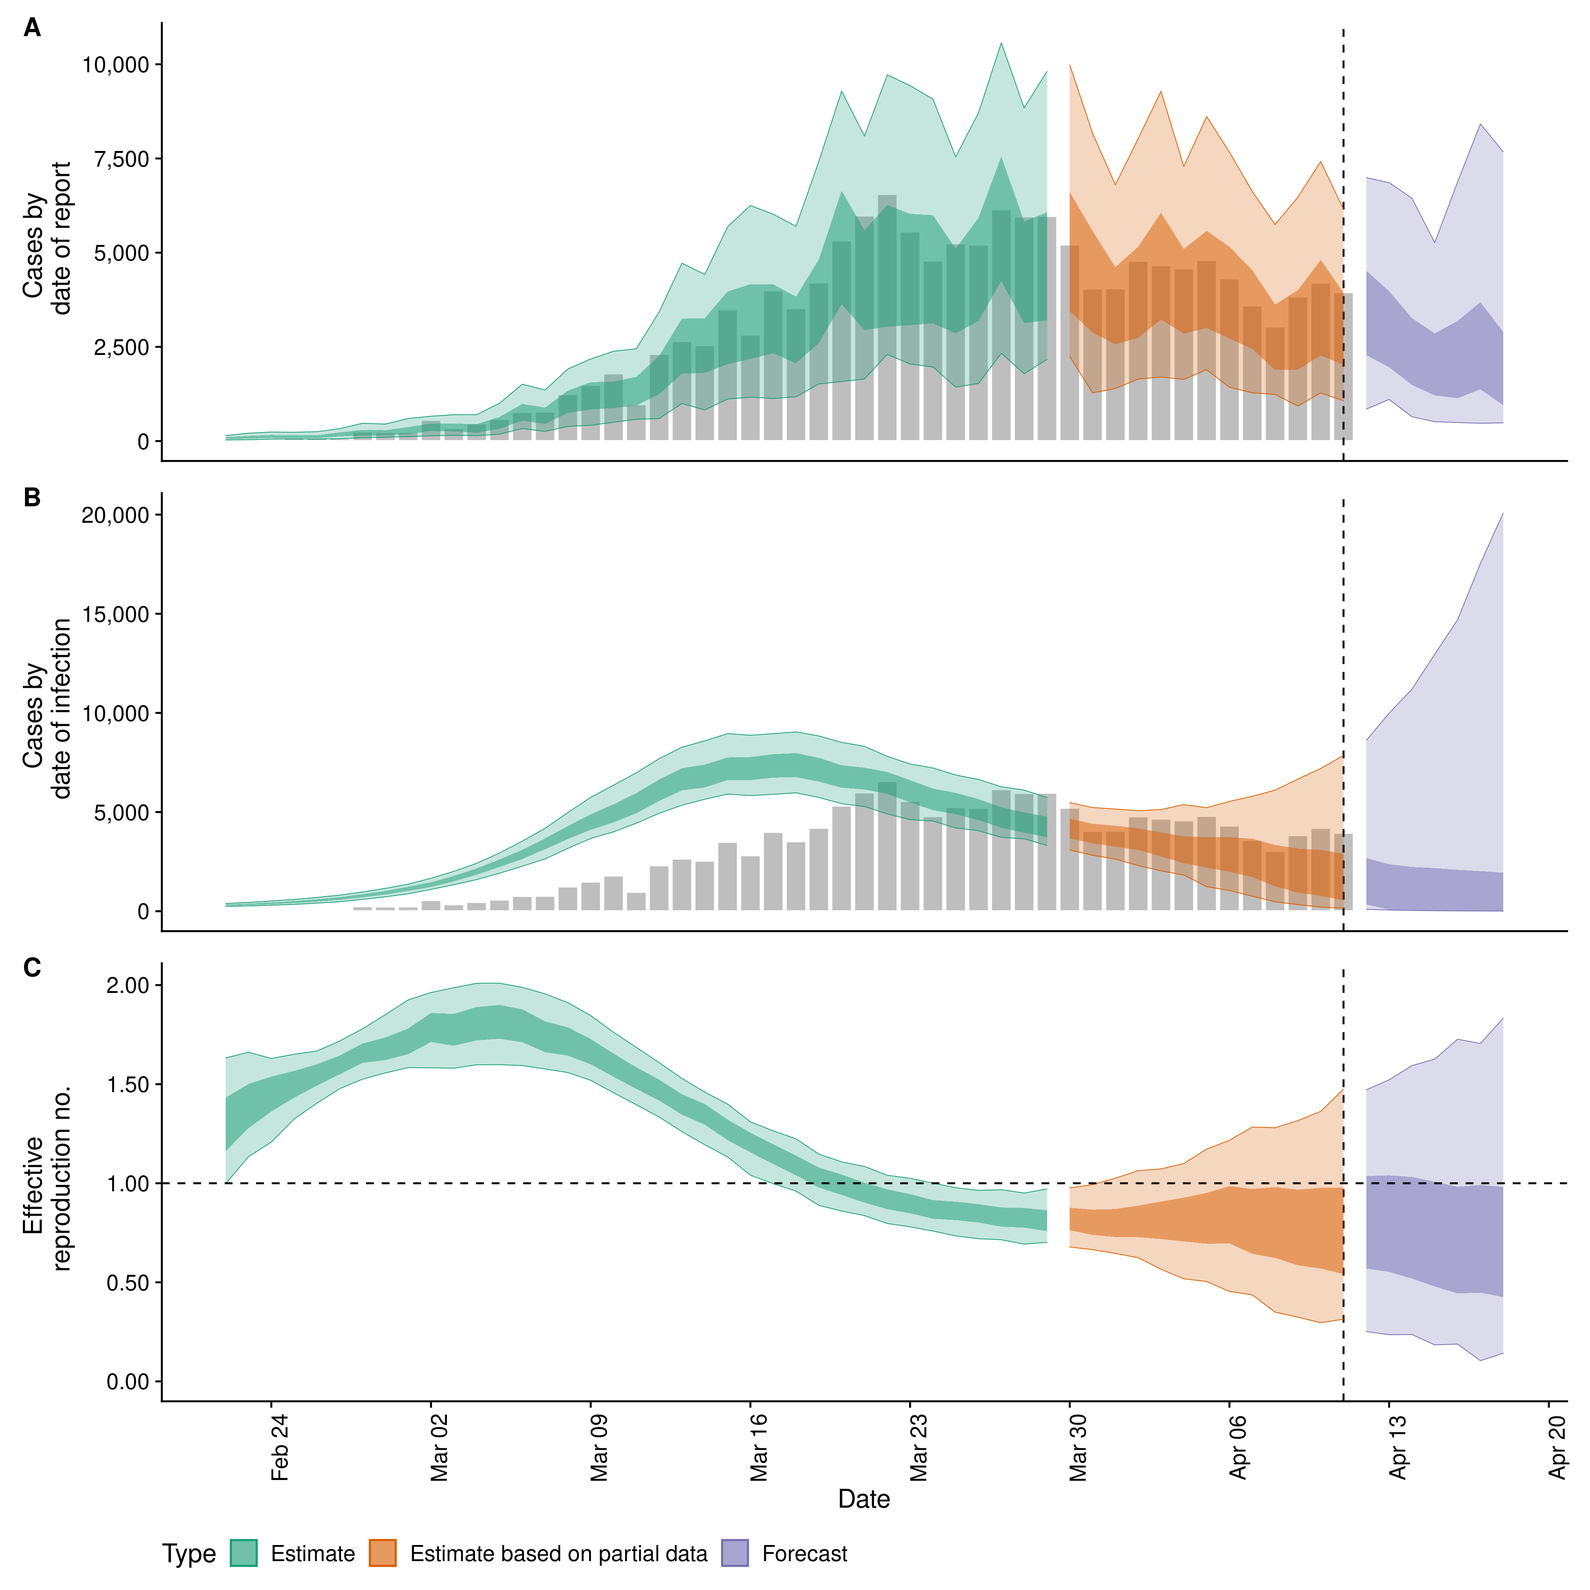
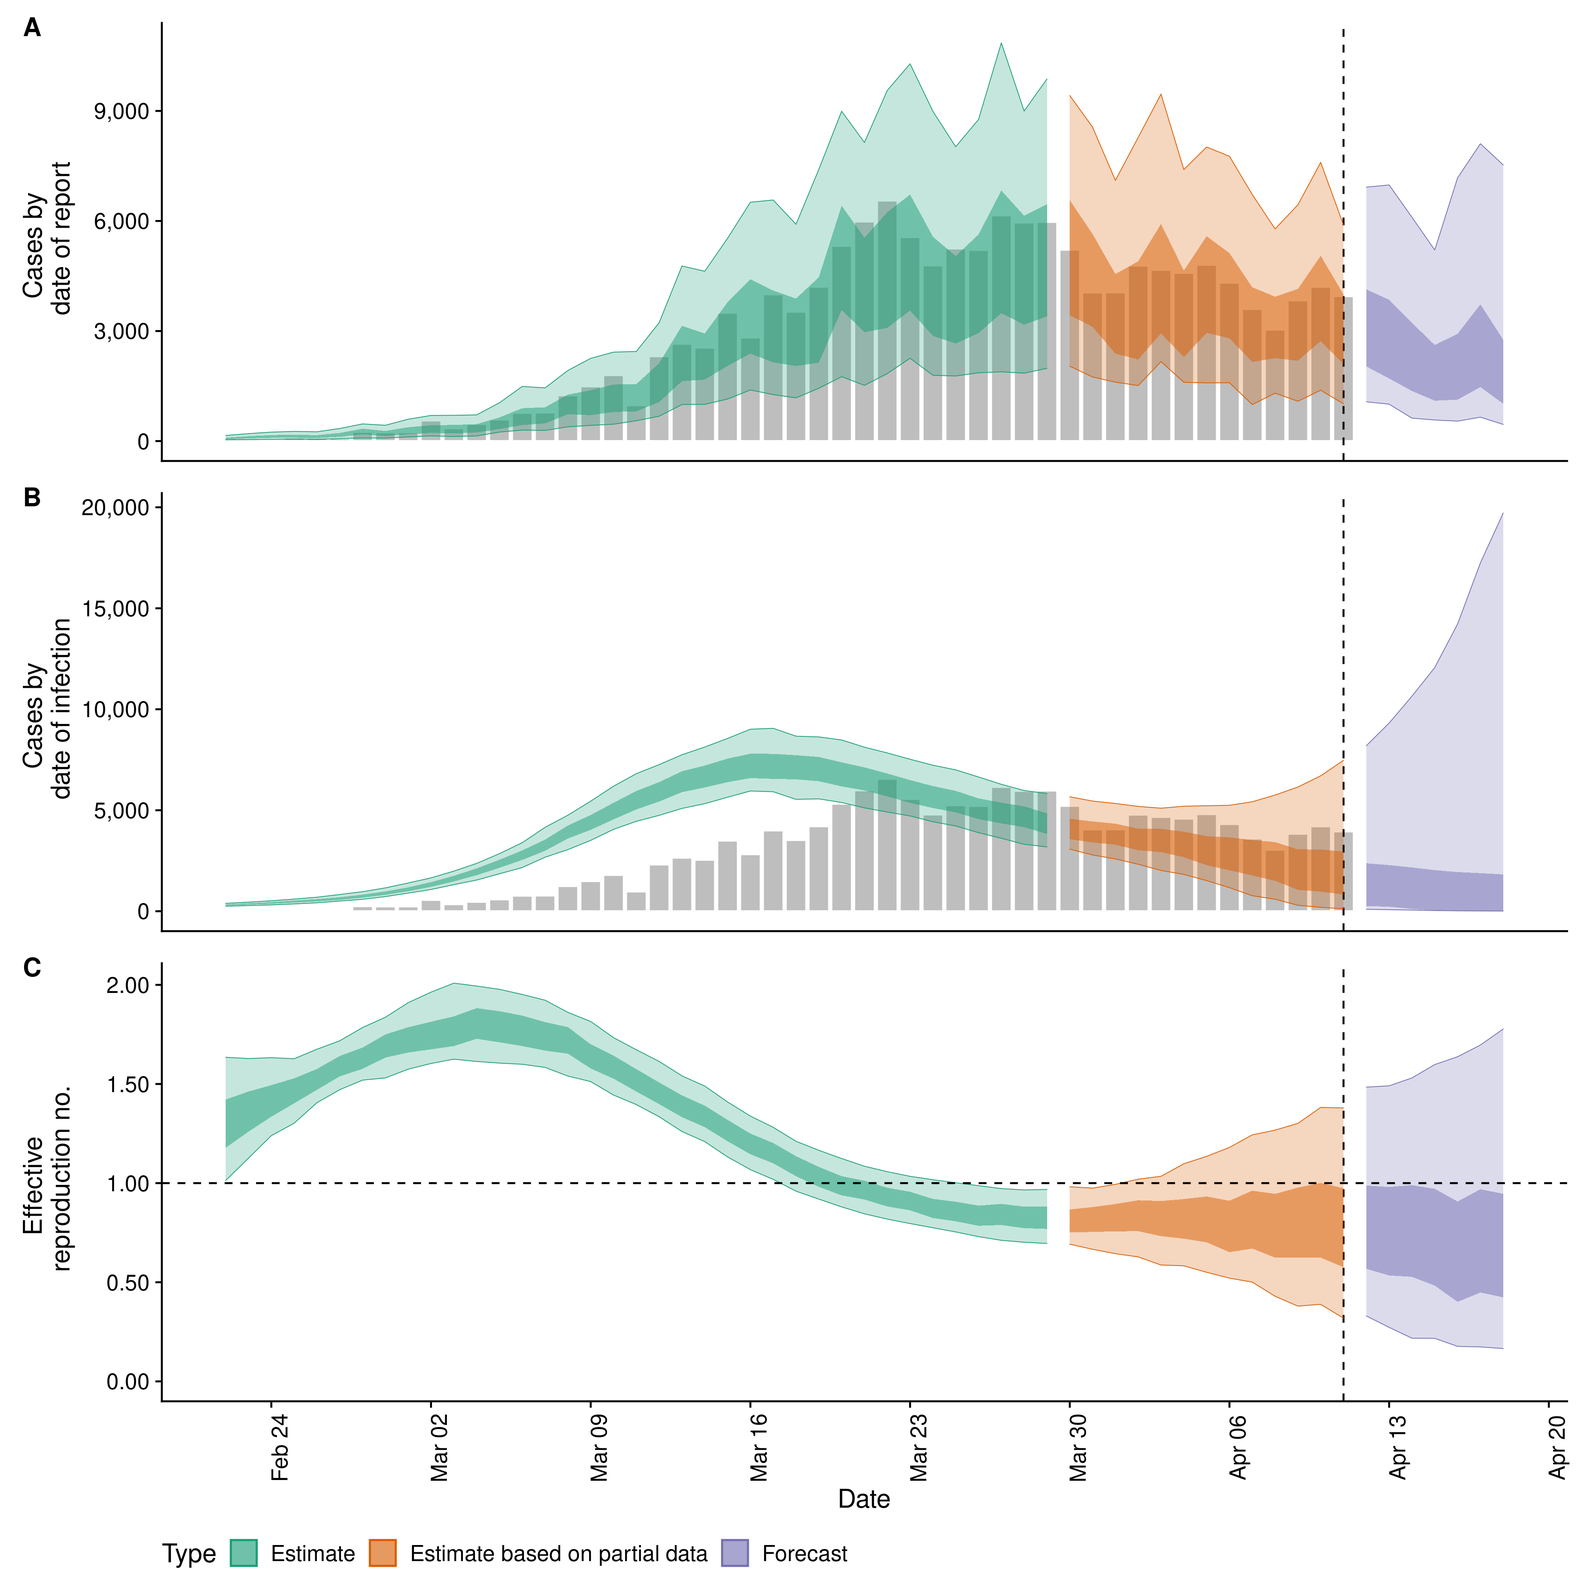
update readme:

diff --git a/README.md b/README.md
@@ -8,14 +8,14 @@ coverage](https://codecov.io/gh/epiforecasts/EpiNow2/branch/master/graph/badge.s
 
 This package estimates the time-varying reproduction number, rate of
 spread, and doubling time using a range of open-source tools ([Abbott et
-al.](doi.org/10.12688/wellcomeopenres.16006.1)), and current best
-practices ([Gostic et al.](doi.org/10.1101/2020.06.18.20134858)). It
-aims to help users avoid some of the limitations of naive
-implementations in a framework that is informed by community feedback
-and is under active development. It estimates the time-varying
-reproduction number on cases by date of infection (using a similar
-approach to that implemented in the
-[`{EpiEstim}`](https://github.com/annecori/EpiEstim)). Imputed
+al.](https://doi.org/10.12688/wellcomeopenres.16006.1)), and current
+best practices ([Gostic et
+al.](https://doi.org/10.1101/2020.06.18.20134858)). It aims to help
+users avoid some of the limitations of naive implementations in a
+framework that is informed by community feedback and is under active
+development. It estimates the time-varying reproduction number on cases
+by date of infection (using a similar approach to that implemented in
+the [`{EpiEstim}`](https://github.com/annecori/EpiEstim)). Imputed
 infections are then mapped to observed data (for example cases by date
 of report) via a series of uncertain delay distributions (in the
 examples in the package documentation these are an incubation period and
@@ -113,16 +113,16 @@ reporting_delay$max <- 30
 
 reporting_delay
 #> $mean
-#> [1] 1.545216
+#> [1] 1.526777
 #> 
 #> $mean_sd
-#> [1] 0.1324599
+#> [1] 0.1187874
 #> 
 #> $sd
-#> [1] 1.049099
+#> [1] 1.018014
 #> 
 #> $sd_sd
-#> [1] 0.1069301
+#> [1] 0.1281687
 #> 
 #> $max
 #> [1] 30
@@ -199,11 +199,11 @@ parameters in an easily explored format.
 estimates$estimates
 #> $samples
 #>                 variable        parameter time       date sample       value
-#>      1:       infections       infections    1 2020-02-09      1    1.930685
-#>      2:       infections       infections    2 2020-02-10      1   12.296683
-#>      3:       infections       infections    3 2020-02-11      1   18.511373
-#>      4:       infections       infections    4 2020-02-12      1   34.002092
-#>      5:       infections       infections    5 2020-02-13      1   50.878446
+#>      1:       infections       infections    1 2020-02-09      1    1.750261
+#>      2:       infections       infections    2 2020-02-10      1   12.116275
+#>      3:       infections       infections    3 2020-02-11      1   20.973398
+#>      4:       infections       infections    4 2020-02-12      1   33.235345
+#>      5:       infections       infections    5 2020-02-13      1   50.846664
 #>     ---                                                                     
 #> 254066: prior_infections prior_infections   66 2020-04-14      1 2714.255263
 #> 254067: prior_infections prior_infections   67 2020-04-15      1 2647.130393
@@ -224,30 +224,30 @@ estimates$estimates
 #> 254070:  <NA> forecast
 #> 
 #> $summarised
-#>            date       variable strat     type      bottom         top
-#>   1: 2020-02-22              R  <NA> estimate   0.9976886    1.632718
-#>   2: 2020-02-23              R  <NA> estimate   1.1341943    1.661147
-#>   3: 2020-02-24              R  <NA> estimate   1.2077832    1.629813
-#>   4: 2020-02-25              R  <NA> estimate   1.3241587    1.651037
-#>   5: 2020-02-26              R  <NA> estimate   1.4040138    1.667489
-#>  ---                                                                 
-#> 320: 2020-04-14 reported_cases  <NA> forecast 645.0000000 6444.000000
-#> 321: 2020-04-15 reported_cases  <NA> forecast 514.0000000 5265.000000
-#> 322: 2020-04-16 reported_cases  <NA> forecast 493.0000000 6875.000000
-#> 323: 2020-04-17 reported_cases  <NA> forecast 472.0000000 8417.000000
-#> 324: 2020-04-18 reported_cases  <NA> forecast 484.0000000 7679.000000
+#>            date       variable strat     type     bottom         top
+#>   1: 2020-02-22              R  <NA> estimate   1.013607    1.634806
+#>   2: 2020-02-23              R  <NA> estimate   1.126032    1.628409
+#>   3: 2020-02-24              R  <NA> estimate   1.239503    1.632852
+#>   4: 2020-02-25              R  <NA> estimate   1.302263    1.627336
+#>   5: 2020-02-26              R  <NA> estimate   1.405565    1.675343
+#>  ---                                                                
+#> 320: 2020-04-14 reported_cases  <NA> forecast 625.000000 6101.000000
+#> 321: 2020-04-15 reported_cases  <NA> forecast 575.000000 5209.000000
+#> 322: 2020-04-16 reported_cases  <NA> forecast 544.000000 7177.000000
+#> 323: 2020-04-17 reported_cases  <NA> forecast 652.000000 8107.000000
+#> 324: 2020-04-18 reported_cases  <NA> forecast 454.000000 7528.000000
 #>            lower       upper      median        mean           sd
-#>   1:    1.161898    1.432021    1.326492    1.332901 1.955253e-01
-#>   2:    1.278200    1.500735    1.373163    1.378565 1.604993e-01
-#>   3:    1.361885    1.538032    1.425563    1.429665 1.282570e-01
-#>   4:    1.431844    1.566878    1.486481    1.484806 1.008667e-01
-#>   5:    1.492757    1.599931    1.542450    1.542226 8.177660e-02
+#>   1:    1.178451    1.421593    1.339590    1.330223 1.850986e-01
+#>   2:    1.259853    1.462121    1.377084    1.375055 1.527293e-01
+#>   3:    1.334916    1.494135    1.422152    1.425275 1.231917e-01
+#>   4:    1.402532    1.528534    1.477543    1.479545 9.865963e-02
+#>   5:    1.470801    1.575832    1.530933    1.536156 8.252993e-02
 #>  ---                                                             
-#> 320: 1491.000000 3263.000000 2935.000000 3533.298000 2.386467e+03
-#> 321: 1212.000000 2857.000000 2432.500000 2988.752000 2.445418e+03
-#> 322: 1139.000000 3186.000000 2804.500000 3801.958000 4.097769e+03
-#> 323: 1372.000000 3685.000000 3198.000000 5214.320000 1.880585e+04
-#> 324:  956.000000 2894.000000 2531.000000 4865.491000 2.108619e+04
+#> 320: 1366.000000 3220.000000 2829.500000 3393.952000 2.299540e+03
+#> 321: 1101.000000 2620.000000 2367.500000 2973.355000 2.680636e+03
+#> 322: 1129.000000 2921.000000 2640.500000 3642.206000 3.842833e+03
+#> 323: 1473.000000 3729.000000 3170.500000 5226.641000 1.567632e+04
+#> 324: 1019.000000 2762.000000 2443.500000 5387.408000 2.755609e+04
 ```
 
 Reported cases are returned separately in order to ease reporting of
@@ -257,77 +257,77 @@ forecasts and model evaluation.
 estimates$estimated_reported_cases
 #> $samples
 #>              date sample cases  type
-#>     1: 2020-02-22      1    72 gp_rt
-#>     2: 2020-02-23      1   179 gp_rt
-#>     3: 2020-02-24      1   253 gp_rt
-#>     4: 2020-02-25      1   150 gp_rt
-#>     5: 2020-02-26      1   133 gp_rt
+#>     1: 2020-02-22      1    57 gp_rt
+#>     2: 2020-02-23      1    88 gp_rt
+#>     3: 2020-02-24      1   138 gp_rt
+#>     4: 2020-02-25      1   117 gp_rt
+#>     5: 2020-02-26      1   141 gp_rt
 #>    ---                              
-#> 56996: 2020-04-14   1000  3577 gp_rt
-#> 56997: 2020-04-15   1000  1793 gp_rt
-#> 56998: 2020-04-16   1000  2103 gp_rt
-#> 56999: 2020-04-17   1000   472 gp_rt
-#> 57000: 2020-04-18   1000  2418 gp_rt
+#> 56996: 2020-04-14   1000  1206 gp_rt
+#> 56997: 2020-04-15   1000   907 gp_rt
+#> 56998: 2020-04-16   1000  1143 gp_rt
+#> 56999: 2020-04-17   1000  2382 gp_rt
+#> 57000: 2020-04-18   1000  1847 gp_rt
 #> 
 #> $summarised
 #>           date  type bottom   top lower upper median     mean          sd
-#>  1: 2020-02-22 gp_rt     29   147    55   100   82.0   87.506    37.87097
-#>  2: 2020-02-23 gp_rt     36   209    67   137  120.0  127.122    56.40657
-#>  3: 2020-02-24 gp_rt     51   240    86   161  134.0  146.775    65.09033
-#>  4: 2020-02-25 gp_rt     57   234    77   155  142.0  148.686    59.62819
-#>  5: 2020-02-26 gp_rt     51   249    75   156  142.0  153.766    67.69020
-#>  6: 2020-02-27 gp_rt     63   330   125   229  191.5  205.435    88.86615
-#>  7: 2020-02-28 gp_rt     90   473   144   297  266.0  286.814   127.44537
-#>  8: 2020-02-29 gp_rt    102   451   151   287  251.0  266.803   113.18316
-#>  9: 2020-03-01 gp_rt    119   600   180   370  325.0  357.672   171.15426
-#> 10: 2020-03-02 gp_rt    140   660   269   466  388.5  407.169   171.44603
-#> 11: 2020-03-03 gp_rt    155   700   255   465  384.0  421.291   185.03628
-#> 12: 2020-03-04 gp_rt    145   701   218   448  399.0  424.808   186.79433
-#> 13: 2020-03-05 gp_rt    182  1003   329   640  568.5  612.244   270.90482
-#> 14: 2020-03-06 gp_rt    333  1509   541   986  803.5  878.620   393.86980
-#> 15: 2020-03-07 gp_rt    256  1356   454   888  801.0  866.045   373.52259
-#> 16: 2020-03-08 gp_rt    391  1912   746  1338 1073.0 1162.320   507.78628
-#> 17: 2020-03-09 gp_rt    419  2179   840  1562 1294.0 1381.053   578.44088
-#> 18: 2020-03-10 gp_rt    499  2384   875  1578 1333.0 1428.703   619.72803
-#> 19: 2020-03-11 gp_rt    580  2450   945  1705 1372.0 1455.251   634.73807
-#> 20: 2020-03-12 gp_rt    597  3427  1241  2260 1929.0 2075.379   922.69655
-#> 21: 2020-03-13 gp_rt    998  4721  1789  3248 2667.5 2848.014  1280.35860
-#> 22: 2020-03-14 gp_rt    825  4422  1810  3261 2541.0 2716.711  1180.18493
-#> 23: 2020-03-15 gp_rt   1115  5687  2041  3970 3251.5 3539.352  1630.38673
-#> 24: 2020-03-16 gp_rt   1167  6252  2177  4161 3535.0 3798.382  1698.41383
-#> 25: 2020-03-17 gp_rt   1130  6021  2330  4159 3520.5 3792.849  1699.05103
-#> 26: 2020-03-18 gp_rt   1174  5699  2066  3832 3242.0 3492.269  1478.47621
-#> 27: 2020-03-19 gp_rt   1516  7421  2604  4816 4173.5 4506.203  1940.88979
-#> 28: 2020-03-20 gp_rt   1581  9287  3630  6642 5421.0 5835.917  2567.43570
-#> 29: 2020-03-21 gp_rt   1648  8094  2945  5596 4688.5 4960.858  2177.20211
-#> 30: 2020-03-22 gp_rt   2300  9718  3035  6267 5582.5 5865.234  2543.39541
-#> 31: 2020-03-23 gp_rt   2046  9434  3076  6028 5545.5 5871.242  2504.05670
-#> 32: 2020-03-24 gp_rt   1966  9077  3125  5995 5145.0 5526.615  2429.53809
-#> 33: 2020-03-25 gp_rt   1433  7544  2858  5105 4317.0 4661.903  2115.48837
-#> 34: 2020-03-26 gp_rt   1529  8713  3187  5926 5102.5 5555.179  2518.98884
-#> 35: 2020-03-27 gp_rt   2330 10569  4246  7549 6134.5 6565.456  2845.39111
-#> 36: 2020-03-28 gp_rt   1786  8842  3131  5825 5041.0 5402.342  2361.78178
-#> 37: 2020-03-29 gp_rt   2167  9810  3204  6071 5527.5 6031.692  2588.90665
-#> 38: 2020-03-30 gp_rt   2240  9985  3447  6605 5449.5 5880.109  2581.86211
-#> 39: 2020-03-31 gp_rt   1280  8171  2882  5577 4611.0 5043.097  2393.20006
-#> 40: 2020-04-01 gp_rt   1394  6799  2566  4615 3899.5 4192.570  1866.59196
-#> 41: 2020-04-02 gp_rt   1645  8030  2739  5158 4556.0 4874.705  2174.57274
-#> 42: 2020-04-03 gp_rt   1700  9283  3225  6061 5295.0 5751.349  2597.19810
-#> 43: 2020-04-04 gp_rt   1635  7286  2853  5097 4217.5 4393.266  1852.38997
-#> 44: 2020-04-05 gp_rt   1893  8614  3002  5578 4752.5 5061.313  2222.68043
-#> 45: 2020-04-06 gp_rt   1427  7669  2720  5157 4395.0 4715.568  2269.74026
-#> 46: 2020-04-07 gp_rt   1281  6627  2446  4535 3755.0 4052.492  1765.71419
-#> 47: 2020-04-08 gp_rt   1237  5748  1886  3627 3114.5 3368.006  1534.13088
-#> 48: 2020-04-09 gp_rt    930  6474  1896  4004 3521.0 3928.244  1870.66115
-#> 49: 2020-04-10 gp_rt   1277  7421  2272  4808 4254.0 4571.091  2176.19018
-#> 50: 2020-04-11 gp_rt   1071  6154  2027  3939 3252.5 3612.370  1767.25537
-#> 51: 2020-04-12 gp_rt    848  6992  2282  4520 3655.5 4093.223  2175.25044
-#> 52: 2020-04-13 gp_rt   1107  6857  1958  3975 3445.5 3904.479  2099.78271
-#> 53: 2020-04-14 gp_rt    645  6444  1491  3263 2935.0 3533.298  2386.46652
-#> 54: 2020-04-15 gp_rt    514  5265  1212  2857 2432.5 2988.752  2445.41752
-#> 55: 2020-04-16 gp_rt    493  6875  1139  3186 2804.5 3801.958  4097.76886
-#> 56: 2020-04-17 gp_rt    472  8417  1372  3685 3198.0 5214.320 18805.85271
-#> 57: 2020-04-18 gp_rt    484  7679   956  2894 2531.0 4865.491 21086.18578
+#>  1: 2020-02-22 gp_rt     34   153    43    88   81.0   88.586    39.65505
+#>  2: 2020-02-23 gp_rt     40   203    72   134  116.0  126.097    55.10023
+#>  3: 2020-02-24 gp_rt     45   244    88   162  139.5  150.251    66.05259
+#>  4: 2020-02-25 gp_rt     54   264    89   172  146.0  155.772    70.09574
+#>  5: 2020-02-26 gp_rt     43   253    83   161  140.0  152.781    69.60690
+#>  6: 2020-02-27 gp_rt     68   343   114   221  189.0  203.793    92.92878
+#>  7: 2020-02-28 gp_rt     85   468   184   337  276.0  290.370   125.67080
+#>  8: 2020-02-29 gp_rt     81   431   139   275  252.5  267.204   116.88049
+#>  9: 2020-03-01 gp_rt    113   596   186   378  321.0  353.678   164.78594
+#> 10: 2020-03-02 gp_rt    141   699   225   431  371.5  412.765   189.37183
+#> 11: 2020-03-03 gp_rt    125   702   209   441  388.0  420.190   203.38732
+#> 12: 2020-03-04 gp_rt    140   714   234   461  397.0  429.156   196.69349
+#> 13: 2020-03-05 gp_rt    245  1044   329   644  566.5  609.139   266.42624
+#> 14: 2020-03-06 gp_rt    300  1490   438   896  808.0  871.336   397.23481
+#> 15: 2020-03-07 gp_rt    291  1450   482   920  803.5  873.307   398.43175
+#> 16: 2020-03-08 gp_rt    389  1925   731  1268 1069.0 1158.306   538.96552
+#> 17: 2020-03-09 gp_rt    428  2255   707  1385 1263.5 1351.991   594.49812
+#> 18: 2020-03-10 gp_rt    460  2425   794  1542 1358.0 1461.580   652.64810
+#> 19: 2020-03-11 gp_rt    555  2443   811  1554 1346.0 1476.827   652.37897
+#> 20: 2020-03-12 gp_rt    677  3227  1064  2121 1861.5 1992.058   865.29130
+#> 21: 2020-03-13 gp_rt    996  4773  1635  3142 2718.5 2881.378  1326.69167
+#> 22: 2020-03-14 gp_rt   1002  4630  1677  2932 2456.0 2708.254  1174.37006
+#> 23: 2020-03-15 gp_rt   1146  5529  2048  3786 3201.5 3447.779  1570.34310
+#> 24: 2020-03-16 gp_rt   1393  6512  2386  4414 3591.5 3908.992  1769.31798
+#> 25: 2020-03-17 gp_rt   1267  6572  2146  4104 3522.5 3846.382  1768.97474
+#> 26: 2020-03-18 gp_rt   1179  5910  2047  3884 3261.0 3526.138  1602.86542
+#> 27: 2020-03-19 gp_rt   1440  7407  2139  4466 4021.5 4431.678  2072.42123
+#> 28: 2020-03-20 gp_rt   1755  8992  3576  6416 5200.0 5559.238  2385.59600
+#> 29: 2020-03-21 gp_rt   1519  8141  2969  5542 4681.0 5032.791  2181.88502
+#> 30: 2020-03-22 gp_rt   1840  9560  3086  6237 5578.0 5932.509  2629.45578
+#> 31: 2020-03-23 gp_rt   2257 10286  3558  6721 5520.5 5981.983  2663.74716
+#> 32: 2020-03-24 gp_rt   1794  8990  2868  5572 4922.5 5387.801  2478.20195
+#> 33: 2020-03-25 gp_rt   1774  8025  2659  5043 4286.0 4616.990  2072.41513
+#> 34: 2020-03-26 gp_rt   1863  8767  2942  5631 4942.0 5453.010  2427.70123
+#> 35: 2020-03-27 gp_rt   1888 10857  3489  6830 6036.5 6570.360  2997.09143
+#> 36: 2020-03-28 gp_rt   1851  8998  3172  6144 5025.5 5376.933  2437.79923
+#> 37: 2020-03-29 gp_rt   1983  9871  3400  6457 5648.5 6005.764  2573.58254
+#> 38: 2020-03-30 gp_rt   2041  9421  3431  6567 5408.5 5809.676  2567.23470
+#> 39: 2020-03-31 gp_rt   1747  8559  3116  5642 4738.5 5127.833  2258.63751
+#> 40: 2020-04-01 gp_rt   1606  7108  2383  4553 3924.0 4296.909  1977.72808
+#> 41: 2020-04-02 gp_rt   1513  8280  2224  4900 4498.5 4926.810  2324.42789
+#> 42: 2020-04-03 gp_rt   2167  9460  2937  5920 5333.0 5731.218  2532.78712
+#> 43: 2020-04-04 gp_rt   1602  7402  2289  4646 4257.0 4565.501  1939.39160
+#> 44: 2020-04-05 gp_rt   1586  8016  2952  5586 4645.5 5011.806  2335.28577
+#> 45: 2020-04-06 gp_rt   1590  7765  2800  5123 4370.5 4646.726  2030.21003
+#> 46: 2020-04-07 gp_rt    994  6722  2159  4192 3690.5 4067.877  1890.74353
+#> 47: 2020-04-08 gp_rt   1306  5785  2260  3937 3162.5 3382.271  1484.56436
+#> 48: 2020-04-09 gp_rt   1085  6441  2192  4147 3574.5 3929.648  1872.83467
+#> 49: 2020-04-10 gp_rt   1386  7599  2728  5052 4165.0 4569.607  2110.62085
+#> 50: 2020-04-11 gp_rt   1014  5890  2096  3996 3304.0 3596.222  1760.53789
+#> 51: 2020-04-12 gp_rt   1071  6923  2036  4136 3591.0 4066.375  2134.61476
+#> 52: 2020-04-13 gp_rt   1006  6982  1706  3851 3421.5 3915.560  2423.14807
+#> 53: 2020-04-14 gp_rt    625  6101  1366  3220 2829.5 3393.952  2299.53973
+#> 54: 2020-04-15 gp_rt    575  5209  1101  2620 2367.5 2973.355  2680.63628
+#> 55: 2020-04-16 gp_rt    544  7177  1129  2921 2640.5 3642.206  3842.83278
+#> 56: 2020-04-17 gp_rt    652  8107  1473  3729 3170.5 5226.641 15676.32300
+#> 57: 2020-04-18 gp_rt    454  7528  1019  2762 2443.5 5387.408 27556.09256
 #>           date  type bottom   top lower upper median     mean          sd
 ```
 
@@ -336,18 +336,12 @@ for reporting purposes.
 
 ``` r
 estimates$summary
-#>                                  measure              estimate
-#> 1: New confirmed cases by infection date    2568 (150 -- 7862)
-#> 2:        Expected change in daily cases                Unsure
-#> 3:            Effective reproduction no.      0.8 (0.3 -- 1.5)
-#> 4:                        Rate of growth -0.04 (-0.22 -- 0.12)
-#> 5:          Doubling/halving time (days)   -15.4 (5.6 -- -3.2)
-#>     numeric_estimate
-#> 1: <data.table[1x5]>
-#> 2:              0.67
-#> 3: <data.table[1x5]>
-#> 4: <data.table[1x5]>
-#> 5: <data.table[1x3]>
+#>                                  measure             estimate  numeric_estimate
+#> 1: New confirmed cases by infection date   2407 (121 -- 7474) <data.table[1x5]>
+#> 2:        Expected change in daily cases               Unsure               0.7
+#> 3:            Effective reproduction no.     0.8 (0.3 -- 1.4) <data.table[1x5]>
+#> 4:                        Rate of growth -0.05 (-0.2 -- 0.11) <data.table[1x5]>
+#> 5:          Doubling/halving time (days)  -13.5 (6.2 -- -3.5) <data.table[1x3]>
 ```
 
 A range of plots are returned (with the single summary plot shown
@@ -406,14 +400,14 @@ reporting (along with raw results for further processing).
 ``` r
 estimates$summary$summarised_results$table
 #>      Region New confirmed cases by infection date
-#> 1: realland                    2524 (132 -- 7240)
-#> 2: testland                    2564 (116 -- 7585)
+#> 1: realland                     2402 (97 -- 7486)
+#> 2: testland                    2474 (114 -- 7527)
 #>    Expected change in daily cases Effective reproduction no.
-#> 1:                         Unsure           0.8 (0.4 -- 1.4)
-#> 2:                         Unsure           0.9 (0.4 -- 1.5)
+#> 1:                         Unsure           0.8 (0.3 -- 1.4)
+#> 2:                         Unsure           0.8 (0.3 -- 1.4)
 #>           Rate of growth Doubling/halving time (days)
-#> 1: -0.05 (-0.19 -- 0.13)            -14 (5.4 -- -3.7)
-#> 2:  -0.04 (-0.2 -- 0.14)          -16.5 (5.1 -- -3.5)
+#> 1: -0.05 (-0.21 -- 0.12)          -13.4 (5.7 -- -3.3)
+#> 2: -0.05 (-0.23 -- 0.11)            -14.3 (6.4 -- -3)
 ```
 
 A range of plots are again returned (with the single summary plot shown

diff --git a/cran-comments.md b/cran-comments.md
@@ -15,3 +15,4 @@
 * Checked packages are not installed in either the code, examples or vignettes.
 * Wrapped examples that required suggested packages with requireNamespace
 * Checked that no code automatically writes to the filesytem. Example of using the internal saving now saves to the temporary directory.
+
